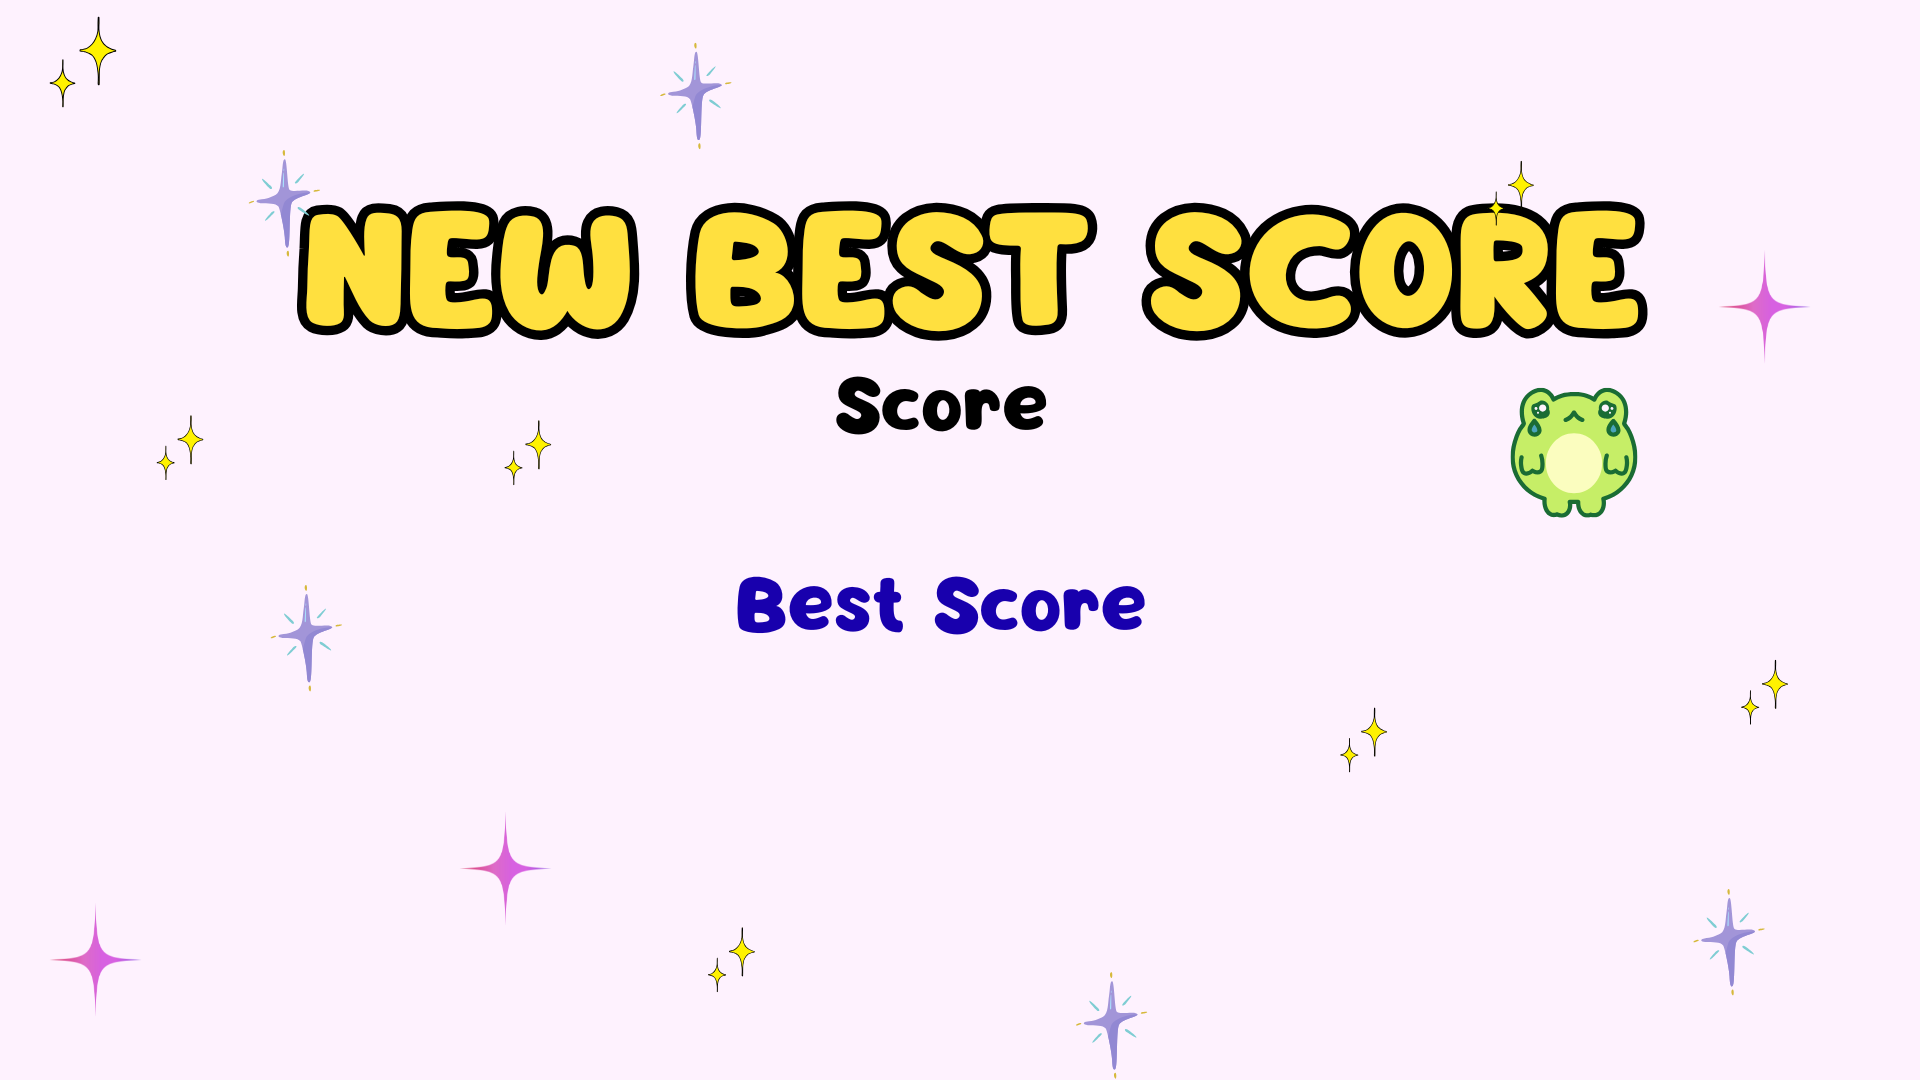
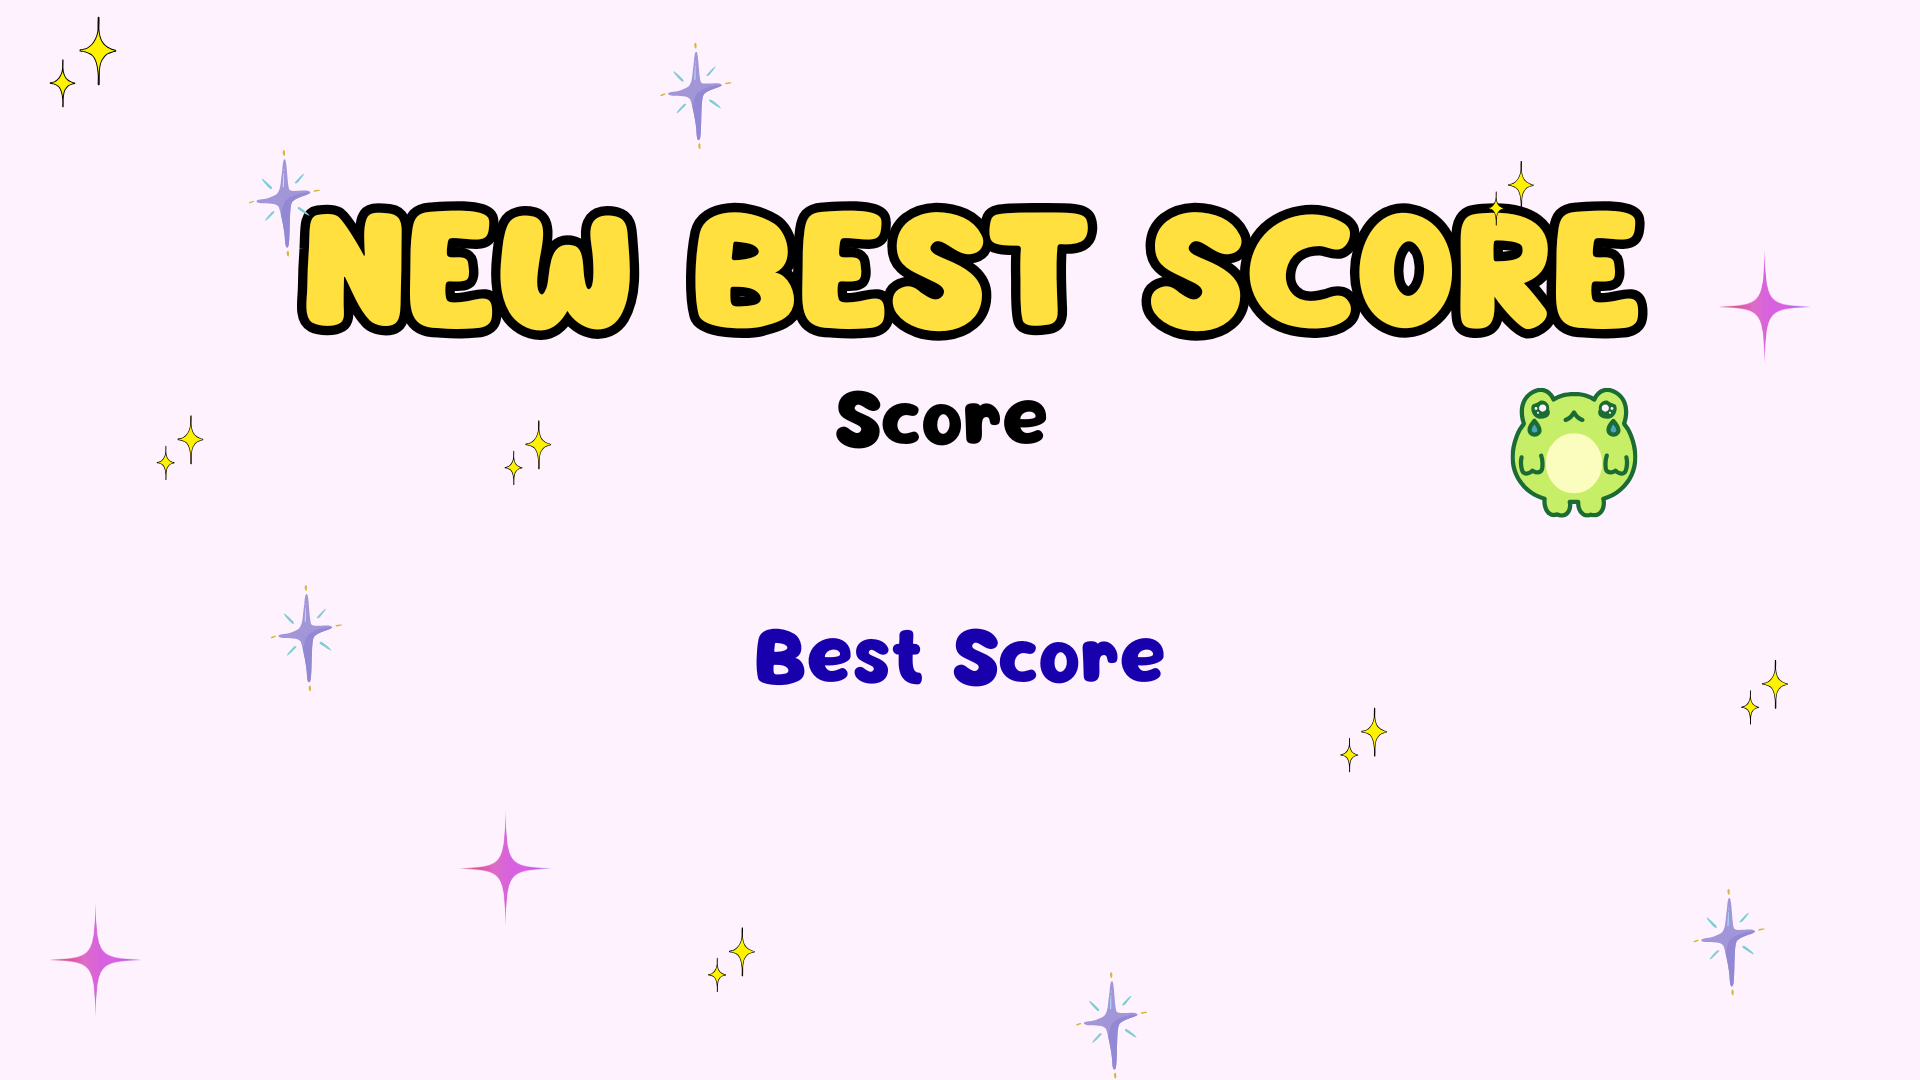
Fix giao diện cuối màn chơi, cập nhật lại hình ảnh

Changed region(s): [[0.375, 0.5194, 0.625, 0.6417], [0.4375, 0.3361, 0.5625, 0.4278]]

diff --git a/src/screens/gameplay_screen.py b/src/screens/gameplay_screen.py
@@ -197,9 +197,9 @@ class GameplayScreen(BaseScreen):
 
             try:
                 assets['img_new_best'] = pygame.image.load(os.path.join(ASSETS_IMG_DIR, 'new_best_score.png')).convert_alpha()
-                assets['img_new_best'] = pygame.transform.scale(assets['img_new_best'], (450, 120))
+                assets['img_new_best'] = pygame.transform.scale(assets['img_new_best'], (1200, 600))
                 assets['img_perfect'] = pygame.image.load(os.path.join(ASSETS_IMG_DIR, 'perfect_score.png')).convert_alpha()
-                assets['img_perfect'] = pygame.transform.scale(assets['img_perfect'], (500, 150))
+                assets['img_perfect'] = pygame.transform.scale(assets['img_perfect'], (1200, 600))
             except: pass
 
             assets['nutcaidat'] = pygame.image.load(os.path.join(ASSETS_IMG_DIR, 'nutcaidat.png')).convert_alpha() 
@@ -227,7 +227,7 @@ class GameplayScreen(BaseScreen):
 
         except Exception as e:
             print(f"Lỗi tải Assets: {e}")
-            
+
         return assets
     
     def reset_game(self, keep_score=False):
@@ -494,7 +494,7 @@ class GameplayScreen(BaseScreen):
             # Màn hình kết quả giữ nguyên
             overlay = pygame.Surface((SCREEN_WIDTH, SCREEN_HEIGHT), pygame.SRCALPHA)
             overlay.fill((0, 0, 0, 200)); surface.blit(overlay, (0, 0))
-            go_rect = self.assets['game_over_image'].get_rect(center=(SCREEN_WIDTH//2, SCREEN_HEIGHT//2 - 50))
+            go_rect = self.assets['game_over_image'].get_rect(center=(SCREEN_WIDTH//2, SCREEN_HEIGHT//2))
             surface.blit(self.assets['game_over_image'], go_rect)
             
             res_img = None
@@ -502,9 +502,9 @@ class GameplayScreen(BaseScreen):
             elif self.is_new_best: res_img = self.assets['img_new_best']
             
             if res_img:
-                res_rect = res_img.get_rect(center=(SCREEN_WIDTH//2, go_rect.top + 20))
-                offset_y = int(pygame.time.get_ticks() / 200) % 10
-                surface.blit(res_img, (res_rect.x, res_rect.y - 70 + offset_y))
+                target_center_y = go_rect.centery
+                res_rect = res_img.get_rect(center=(SCREEN_WIDTH//2, target_center_y))
+                surface.blit(res_img, (res_rect.x, res_rect.y))
 
             score_txt = self.font_title.render(f"{self.score}", True, (255, 0, 0))
             surface.blit(score_txt, score_txt.get_rect(center=(SCREEN_WIDTH//2, go_rect.centery)))
